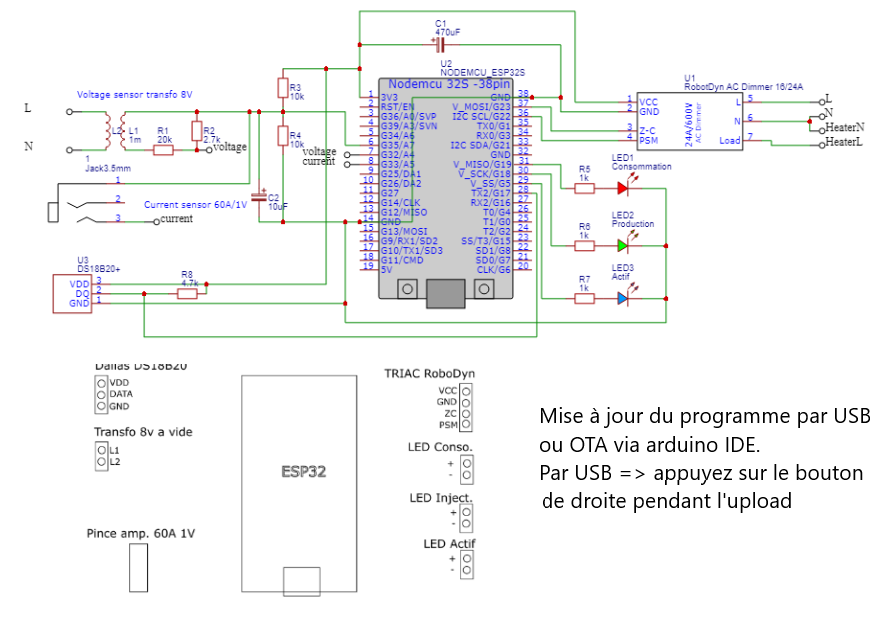
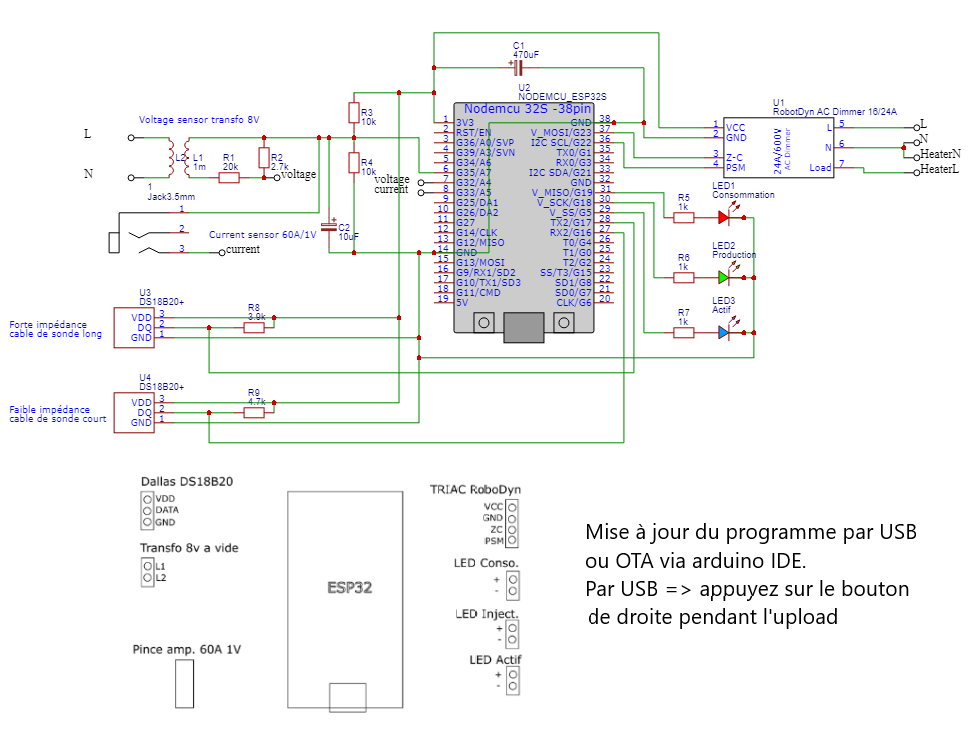
chore(dallas): split 1-wire into 2 bus to prevent cable length issues

Changed region(s): [[0.0, 0.0, 1.0, 0.9635], [0.5843, 0.6323, 1.0, 0.8431], [0.0923, 0.8431, 0.246, 0.9635]]

diff --git a/temperature.cpp b/temperature.cpp
@@ -4,30 +4,43 @@
 #include "memory.h"
 #include <Arduino.h>
 
-OneWire oneWire(dallasOneWire);
-DallasTemperature sensors(&oneWire);
+int busCount = 2;
+OneWire oneWireB1(dallasOneWireBus1);
+DallasTemperature sensorsB1(&oneWireB1);
+OneWire oneWireB2(dallasOneWireBus2);
+DallasTemperature sensorsB2(&oneWireB2);
+
+DallasTemperature sensorsBus[] = {sensorsB1, sensorsB2};
 
 Temperature::Temperature() {
-  sensors.begin();
-  sensors.setResolution(11);
+  for(int bus = 0; bus < busCount; bus++) { 
+    sensorsBus[bus].begin();
+    sensorsBus[bus].setResolution(11);
+    #ifndef WAIT_FOR_REQUEST_TEMPERATURE
+    sensorsBus[bus].setWaitForConversion(false);
+    #endif
+  }
   #ifndef WAIT_FOR_REQUEST_TEMPERATURE
-  sensors.setWaitForConversion(false);
   this->updateSensors();
   #endif
 }
 
 void Temperature::setup() {
 #ifdef READ_ONE_WIRE_SENSORS_ADDRESS
-  char cMsg[40];
-  sprintf(cMsg, "[Temperature] Device connected: %d", sensors.getDeviceCount());
-  log(cMsg);
+  char cMsg[50];
+  for(int bus = 0; bus < busCount; bus++) { 
+    sprintf(cMsg, "[Temperature] Device connected on bus %d: %d", bus + 1, sensorsBus[bus].getDeviceCount());
+    log(cMsg);
+  }
   this->readSensorsAddress();
 #endif
 }
 
 void Temperature::updateSensors() {
     this->previousComputeMillis = millis();
-    sensors.requestTemperatures();
+    for(int bus = 0; bus < busCount; bus++) { 
+      sensorsBus[bus].requestTemperatures();
+    }
 }
 
 void Temperature::update() {
@@ -37,12 +50,12 @@ void Temperature::update() {
   }
 }
 
-float Temperature::getTemperature(DeviceAddress addr) {
-  float result = sensors.getTempC(addr);
+float Temperature::getTemperature(DeviceAddress addr, int bus) {
+  float result = sensorsBus[bus - 1].getTempC(addr);
   if (result < -100) {
     readLogData();
-    errorLogData[14]++;
-    errorLogData[15] = result;
+    errorLogData[14 + bus - 1]++;
+    errorLogData[16] = result;
     writeLogData(errorLogData);
   }
   // If last update is old, call new one
@@ -55,16 +68,18 @@ float Temperature::getTemperature(DeviceAddress addr) {
 #ifdef READ_ONE_WIRE_SENSORS_ADDRESS
 void Temperature::readSensorsAddress() {
   DeviceAddress temp;
-  for(int i = 0; i < sensors.getDeviceCount(); i++) {
-    sensors.getAddress(temp, i);
-    Serial.printf("Sensor %d : ", i + 1);
-    for (uint8_t e = 0; e < 8; e++) {
-      Serial.print("0x");
-      if (temp[e] < 0x10) Serial.print("0");
-      Serial.print(temp[e], HEX);
-      Serial.print(", ");
+  for(int bus = 0; bus < busCount; bus++) {
+    for(int i = 0; i < sensorsBus[bus].getDeviceCount(); i++) {
+      sensorsBus[bus].getAddress(temp, i);
+      Serial.printf("Sensor %d on bus %d : ", i + 1, bus + 1);
+      for (uint8_t e = 0; e < 8; e++) {
+        Serial.print("0x");
+        if (temp[e] < 0x10) Serial.print("0");
+        Serial.print(temp[e], HEX);
+        Serial.print(", ");
+      }
+    Serial.println();
     }
-  Serial.println();
   }
 }
 #endif

diff --git a/const.h b/const.h
@@ -23,6 +23,8 @@ static const int ACCESSORY_CORE = MAIN_WIFI_CORE;
 #define READ_ONE_WIRE_SENSORS_ADDRESS
 static uint8_t TankOneWireTempSensor[8] = { 0x28, 0xA3, 0xDC, 0x49, 0xF6, 0x86, 0x3C, 0xD3 };
 static uint8_t TriacOneWireTempSensor[8] = { 0x28, 0x29, 0x86, 0x48, 0xF6, 0x33, 0x3C, 0xAC };
+static int TriacOneWireBus = 1;
+static int TankOneWireBus = 2;
 #ifdef RUN_DUAL_CORE_PROGRAM
 //#define WAIT_FOR_REQUEST_TEMPERATURE
 #endif
@@ -37,7 +39,8 @@ static const int PulseTriac = 22;
 static const int LedRed = 19;
 static const int LedGreen = 18;
 static const int LedBlue = 5;
-static const int dallasOneWire = 17;
+static const int dallasOneWireBus1 = 16;
+static const int dallasOneWireBus2 = 17;
 
 //CALIBRATION
 static const float kV = 0.18453;    //Calibration coefficient for the voltage. To be adjusted
@@ -57,6 +60,6 @@ static const int TANK_MODE_AUTO_MASK = 0b01;
 static const int TANK_MODE_ON_MASK = 0b10;
 
 //LOG
-static const int ERROR_LOG_SIZE = 16;
+static const int ERROR_LOG_SIZE = 17;
 
 #endif

diff --git a/network.cpp b/network.cpp
@@ -37,8 +37,8 @@ void Network::generateRestData() {
 
 void Network::handleErrorLog() {
   readLogData();
-  char error[100];
-  sprintf(error, "[%i,%i,%i,%i,%i,%i,%i,%i,%i,%i,%i,%i,%i,%i,%i,%i]", errorLogData[0], errorLogData[1], errorLogData[2], errorLogData[3], errorLogData[4], errorLogData[5], errorLogData[6], errorLogData[7], errorLogData[8], errorLogData[9], errorLogData[10], errorLogData[11], errorLogData[12], errorLogData[13], errorLogData[14], errorLogData[15]);
+  char error[120];
+  sprintf(error, "[%i,%i,%i,%i,%i,%i,%i,%i,%i,%i,%i,%i,%i,%i,%i,%i,%i]", errorLogData[0], errorLogData[1], errorLogData[2], errorLogData[3], errorLogData[4], errorLogData[5], errorLogData[6], errorLogData[7], errorLogData[8], errorLogData[9], errorLogData[10], errorLogData[11], errorLogData[12], errorLogData[13], errorLogData[14], errorLogData[15], errorLogData[16]);
   server.send(200, "application/json", error);
 }
 

diff --git a/measure.cpp b/measure.cpp
@@ -147,7 +147,7 @@ void Measure::update() {
 
   if (millis() - this->previousTemperatureMillis > 10000) {
     this->previousTemperatureMillis = millis();
-    float temperature = this->temperatureSensor->getTemperature(TriacOneWireTempSensor);
+    float temperature = this->temperatureSensor->getTemperature(TriacOneWireTempSensor, TriacOneWireBus);
     if (temperature > 0) {
       if (temperature != this->triacTemperature) {
         this->triacTemperature = temperature;

diff --git a/memory.h b/memory.h
@@ -38,8 +38,9 @@ static void writeTemperatureToEEPROM(float temperature) {
  * 11- ESP_RST_BROWNOUT,   //!< Brownout reset (software or hardware)
  * 12- ESP_RST_SDIO,       //!< Reset over SDIO
  * 13- Last Wifi disconnect reason
- * 14- temperature sensor failures
- * 15- temperature sensor last error code
+ * 14- temperature sensor failures bus 1
+ * 15- temperature sensor failures bus 2
+ * 16- temperature sensor last error code
  * 
  * Wifi disconnect reason list :
 * 

diff --git a/tank.cpp b/tank.cpp
@@ -73,7 +73,7 @@ bool Tank::reachedTargetTemperature() {
 
 void Tank::update() {
   if (millis() - this->previousComputeMillis > 10000) {
-    float temperatureC = this->temperatureSensor->getTemperature(TankOneWireTempSensor);
+    float temperatureC = this->temperatureSensor->getTemperature(TankOneWireTempSensor, TankOneWireBus);
     if (temperatureC > 0) {
       this->setTemperature(temperatureC);
     } else {

diff --git a/temperature.h b/temperature.h
@@ -11,7 +11,7 @@ class Temperature {
     Temperature();
     void setup();
     void update();
-    float getTemperature(DeviceAddress addr);
+    float getTemperature(DeviceAddress addr, int bus);
     #ifdef READ_ONE_WIRE_SENSORS_ADDRESS
     void readSensorsAddress();
     #endif
